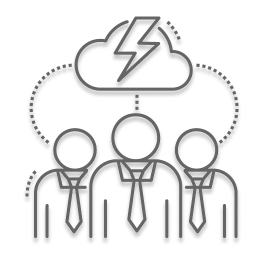
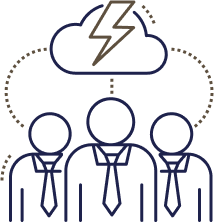
update

diff --git a/src/components/sections/Process.tsx b/src/components/sections/Process.tsx
@@ -39,11 +39,11 @@ const Process: React.FC = () => {
         >
           {files.map((file) => (
             <li key={file.title} className="relative">
-              <div className="group aspect-1 flex overflow-hidden p-5 mb-5 w-full bg-ic-secondary-50 rounded-lg focus-within:ring-2 focus-within:ring-ic-secondary-500 focus-within:ring-offset-2 focus-within:ring-offset-ic-secondary-100 shadow-sm">
+              <div className="group aspect-1 flex overflow-hidden justify-center items-center p-5 mb-5 w-full bg-ic-secondary-50 rounded-lg focus-within:ring-2 focus-within:ring-ic-secondary-500 focus-within:ring-offset-2 focus-within:ring-offset-ic-secondary-100 shadow-sm">
                 <img
                   src={file.source}
                   alt=""
-                  className="object-cover items-center group-hover:opacity-75 pointer-events-none"
+                  className="object-contain items-center w-3/4 h-3/4 group-hover:opacity-75 pointer-events-none"
                 />
               </div>
               <p className="block mb-2 font-medium text-ic-primary pointer-events-none text-md">
